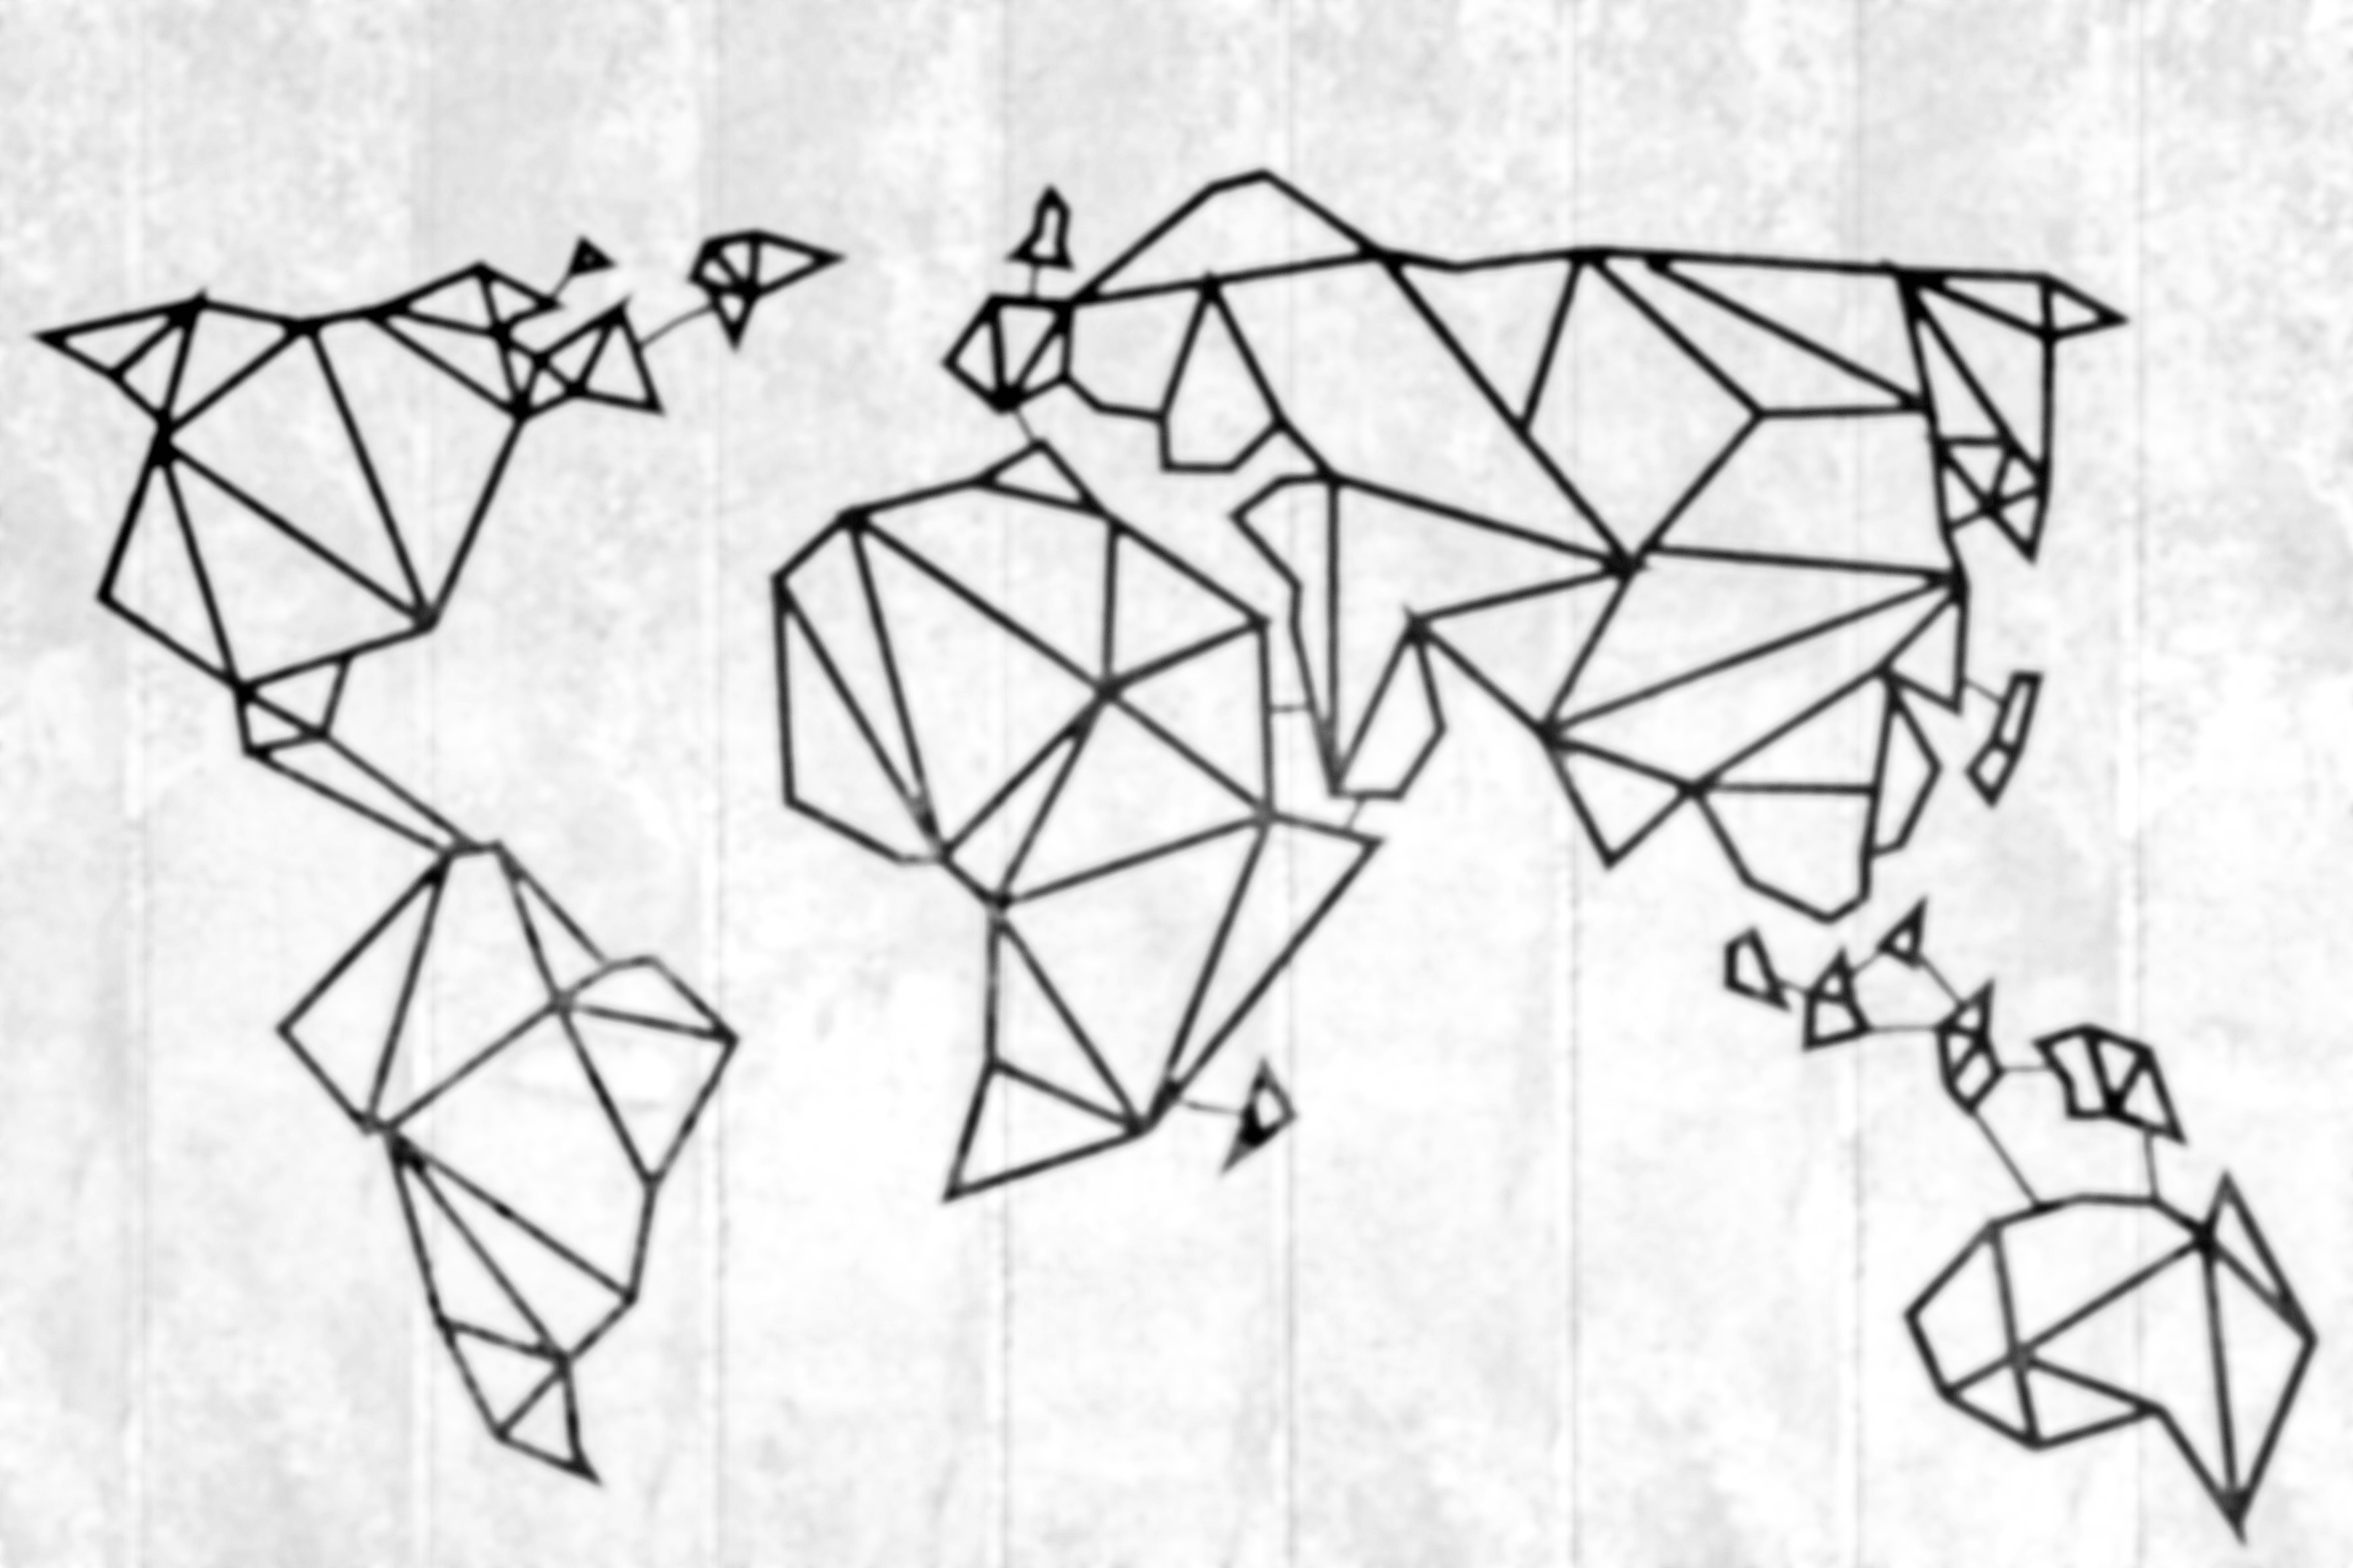
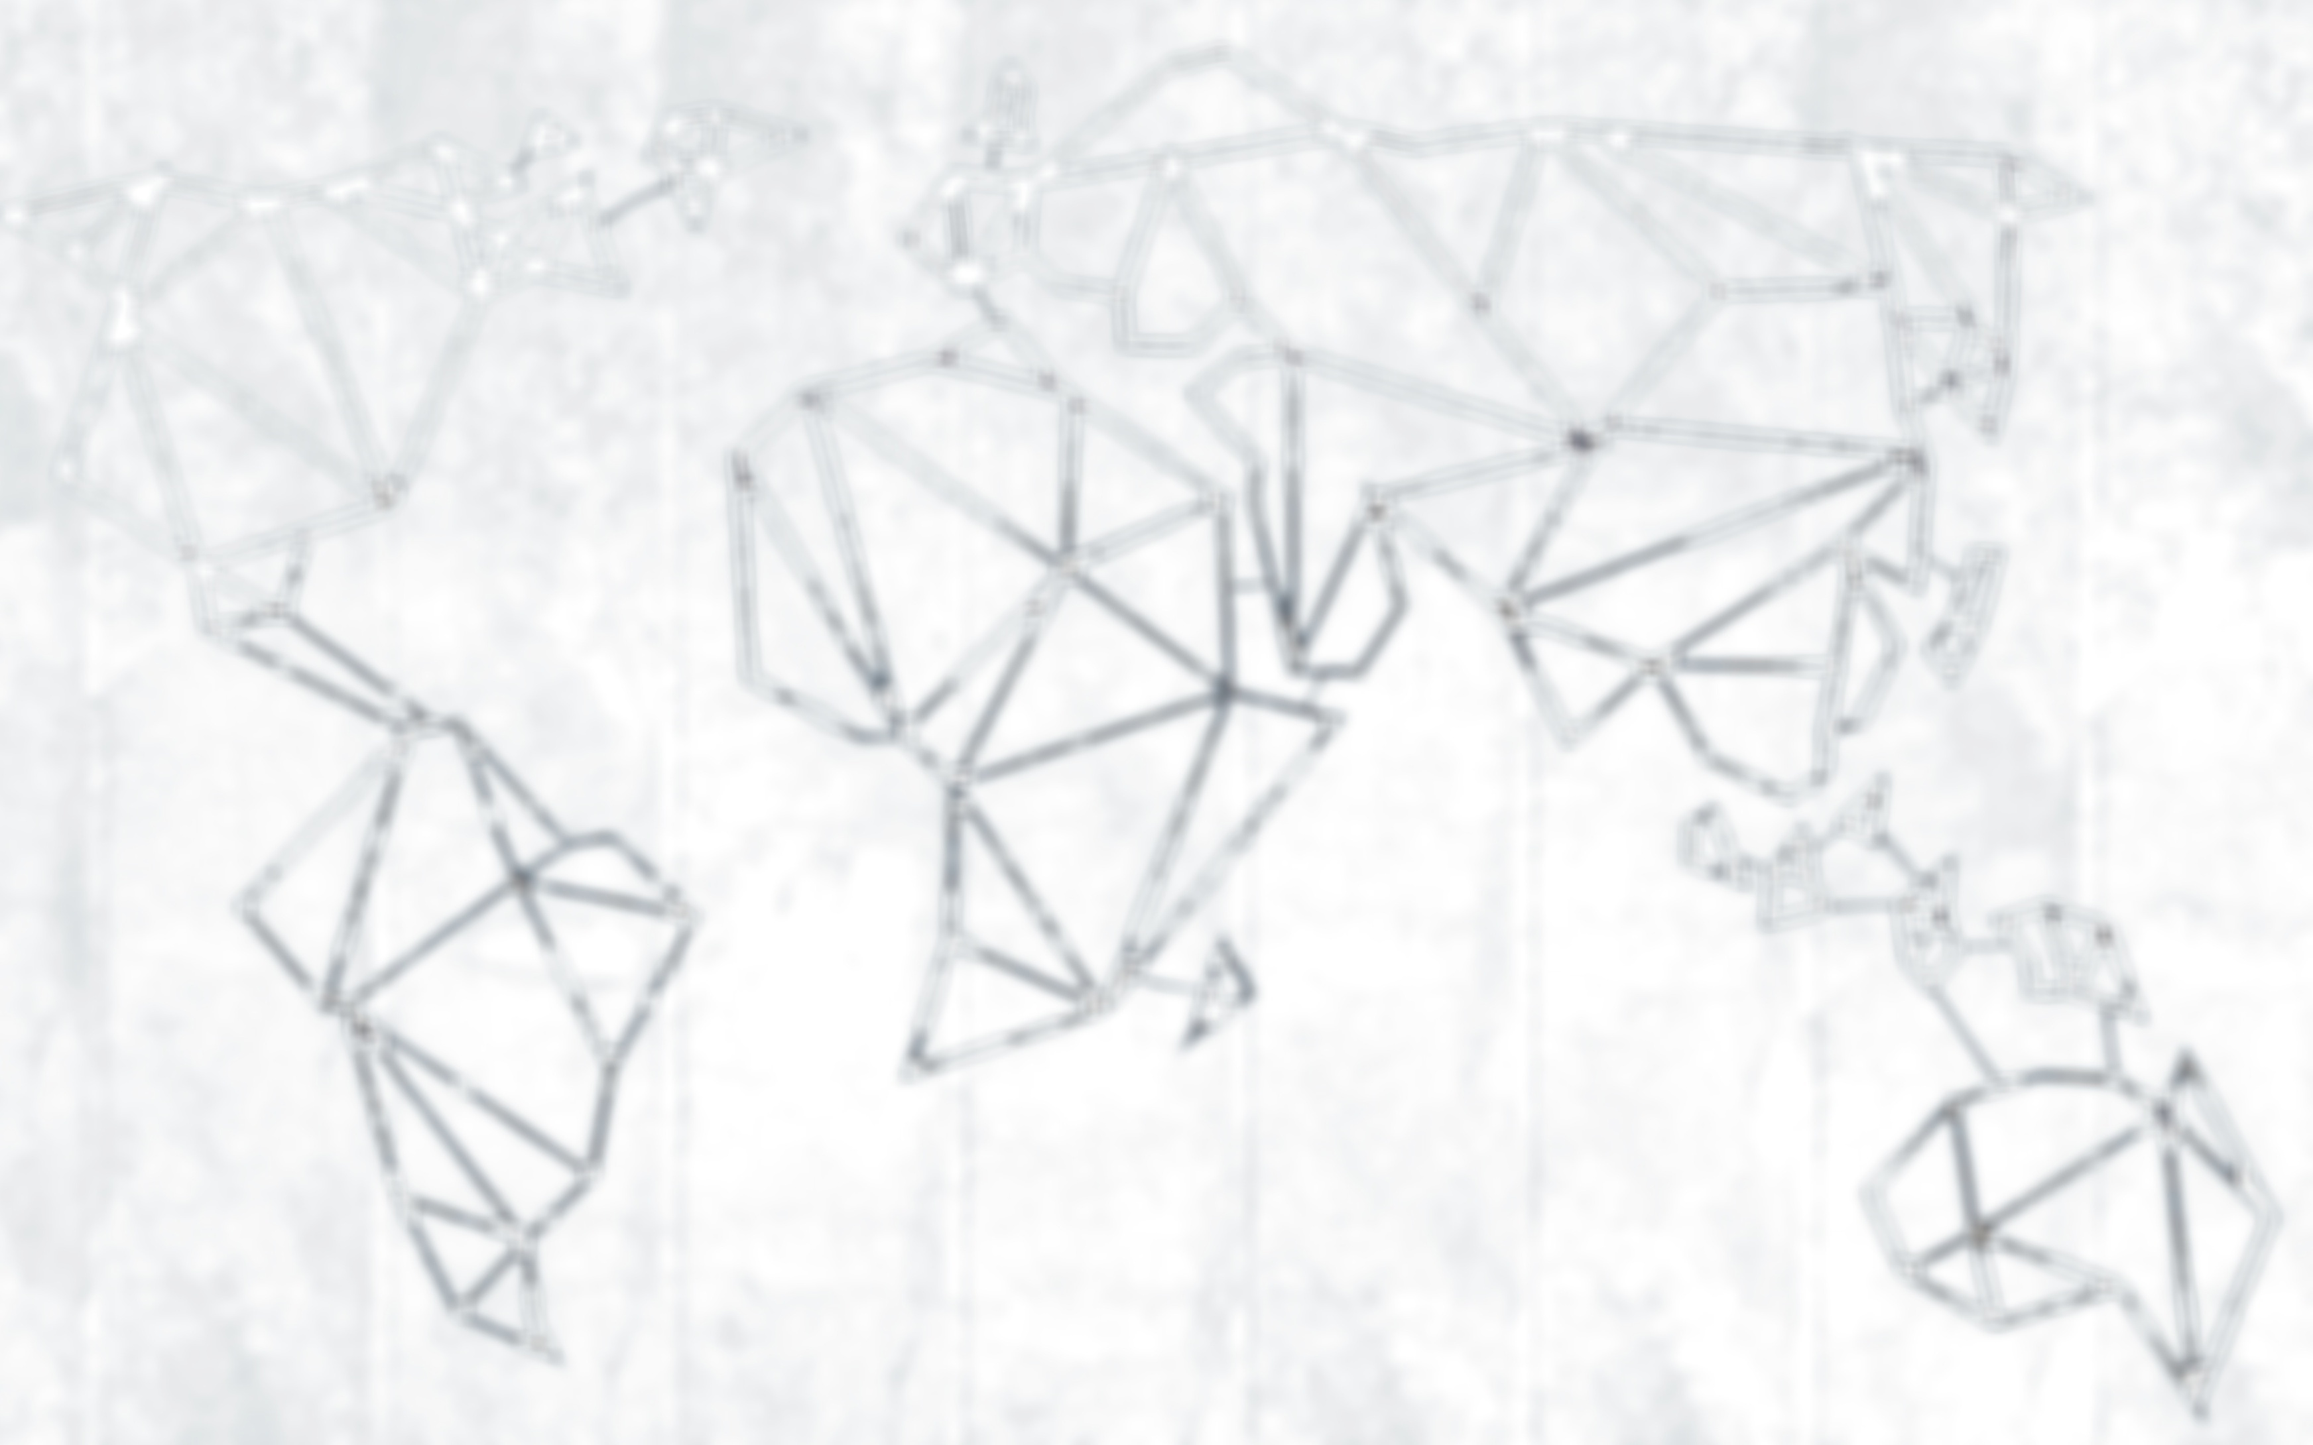
style

diff --git a/1_trabel.css b/1_trabel.css
@@ -1,17 +1,23 @@
+#button {
+    position: absolute;
+    right:0px;
+    top:0px;
+}
+
 /* 배경 */
 body {
-    background-image: url('bg_dark.jpg');
+    background-image: url('bg_light.jpg');
     background-repeat: no-repeat;
     background-position: center center;
     background-size: cover;
     background-color: rgb(90, 90, 90);
-    color: rgb(214, 206, 206);
+    color: rgb(95, 94, 94);
 }
 
 /* 제목 */
 a {
     text-decoration: none;
-    color:rgb(214, 206, 206);
+    color:rgb(123, 200, 226);
 }
 
 .title {
@@ -30,10 +36,10 @@ p {
     height:30px;
     margin-top:0%;
     text-align:center;
-    background-color: rgba(0,0,0,0.1);
-    color: rgb(214, 206, 206);
+    background-color: rgba(250,250,250,0.5);
+    color: black;
     font-size: 20px;
-    border:2px solid rgb(214, 206, 206);
+    border:2px solid lightgrey;
 }
 
 /*range*/
@@ -42,16 +48,16 @@ input[type=range] {
     background: transparent;
     margin-top:5%;
     margin-bottom:5%;
-    border: 2px solid rgb(214, 206, 206);
+    border: 2px solid lightgrey;
 }
 
 input[type=range]::-webkit-slider-thumb {
     -webkit-appearance: none;
-    border: 1px solid #000000;
+    border: 1px solid lightgrey;
     height:30px;
     width: 16px;
     border-radius: 3px;
-    background: rgb(214, 206, 206);
+    background: lightgrey;
     cursor: pointer;
 }
     
@@ -65,7 +71,7 @@ input[type=number] {
     bottom:10px;
     height: 34px;
     width: 30px;
-    color:rgb(214, 206, 206);
+    color:grey;
     background-color: rgba(0, 0, 0, 0);
     border: 2px solid rgb(214, 206, 206);
     text-align: center;

diff --git a/2_trabel.css b/2_trabel.css
@@ -1,25 +1,39 @@
 body {
-    background-image: url('bg_dark.jpg');
+    background-image: url('bg_light.jpg');
     background-repeat: no-repeat;
     background-position: center center;
     background-size: cover;
     background-color: rgb(90, 90, 90);
     color: rgb(214, 206, 206);
 }
-
-.titleBox {
-    display: flex;
-    flex-direction: row;
-    justify-content: center;
+/*라이트 다크*/
+#button {
+    position: absolute;
+    right:0px;
+    top:0px;
 }
 
+/*제목 스타일*/
 a {
-    color:rgb(214, 206, 206);
     text-decoration: none;
+    margin-left: 20px;
+    margin-top: 10px;
+    margin-bottom: 20px;
+    color:rgb(123, 200, 226);
 }
 
-span.title {
-    font-size: 130px;
+h1{
+    margin-top: 10px;
+    margin-bottom: 20px;
+}
+
+#title {
+    margin-left: 20px;
+    font-size:18px;
+    text-align:center;
+    position: absolute;
+    left:0px;
+    top:0px;
 }
 
 p {
@@ -29,12 +43,12 @@ p {
 .search_place {
     width:50%;
     height:30px;
-    margin-top:5%;
+    margin-top:20%;
     text-align:center;
     background-color: rgba(0,0,0,0.1);
-    color: rgb(214, 206, 206);
+    color: black;
     font-size: 20px;
-    border:2px solid rgb(214, 206, 206);
+    border:2px solid black;
 }
 
 input:focus {

diff --git a/2_trabel.html b/2_trabel.html
@@ -5,15 +5,25 @@
     <meta charset="utf-8">
 
     <link rel="stylesheet" href="2_trabel.css">
-
+    <script src="colors.js"></script>
 </head>
 
 <body>
-    <div class="titleBox">
-        <span class="title">
-            <a href="1_trabel.html">TRABEL</a>
-        </span>
+    <div id="button">
+        <Input id="night_day" type="button" value="DARK" onclick="
+          lightDarkHandler(this);
+        ">
     </div>
+
+    <div id="title">
+
+        <a href="1_trabel.html">
+
+            <h1>TRABEL</h1>
+
+        </a>
+    </div>
+
     <form action="3_trabel.html" method="get">
         <p>
             <input type="text" class="search_place" placeholder="장소 검색">

diff --git a/3_trabel.css b/3_trabel.css
@@ -11,9 +11,8 @@ a {
     margin-left: 20px;
     margin-top: 10px;
     margin-bottom: 20px;
-    color:BF1C1C;
-    
-};
+    color:rgb(123, 200, 226);
+}
 
 
 h1{
@@ -84,11 +83,11 @@ body{
 
 
 button{
-    background-color: FFE4CF;
+    background-color: rgb(255, 254, 254);
     border: none;
     height:100%;
     width:100%;
-    color: white;
+    color: rgb(123, 200, 226);
     opacity: 0.95;
 }
 
@@ -102,7 +101,7 @@ img{
 .explain{
 
     color: rgba(109, 89, 89, 1);
-    background-color: rgba(109, 89, 89, 0.1);
+    background-color: rgb(250, 250, 250);
     width:100%;
 }
 

diff --git a/1_trabel.html b/1_trabel.html
@@ -4,9 +4,16 @@
 <head>
     <meta charset="utf-8">
     <link rel="stylesheet" href="1_trabel.css">
+    <script src="colors.js"></script>
 </head>
 
 <body>
+    <div id="button">
+        <Input id="night_day" type="button" value="DARK" onclick="
+          lightDarkHandler(this);
+        ">
+    </div>
+
     <div class="title">
 
         <a href="1_trabel.html">
